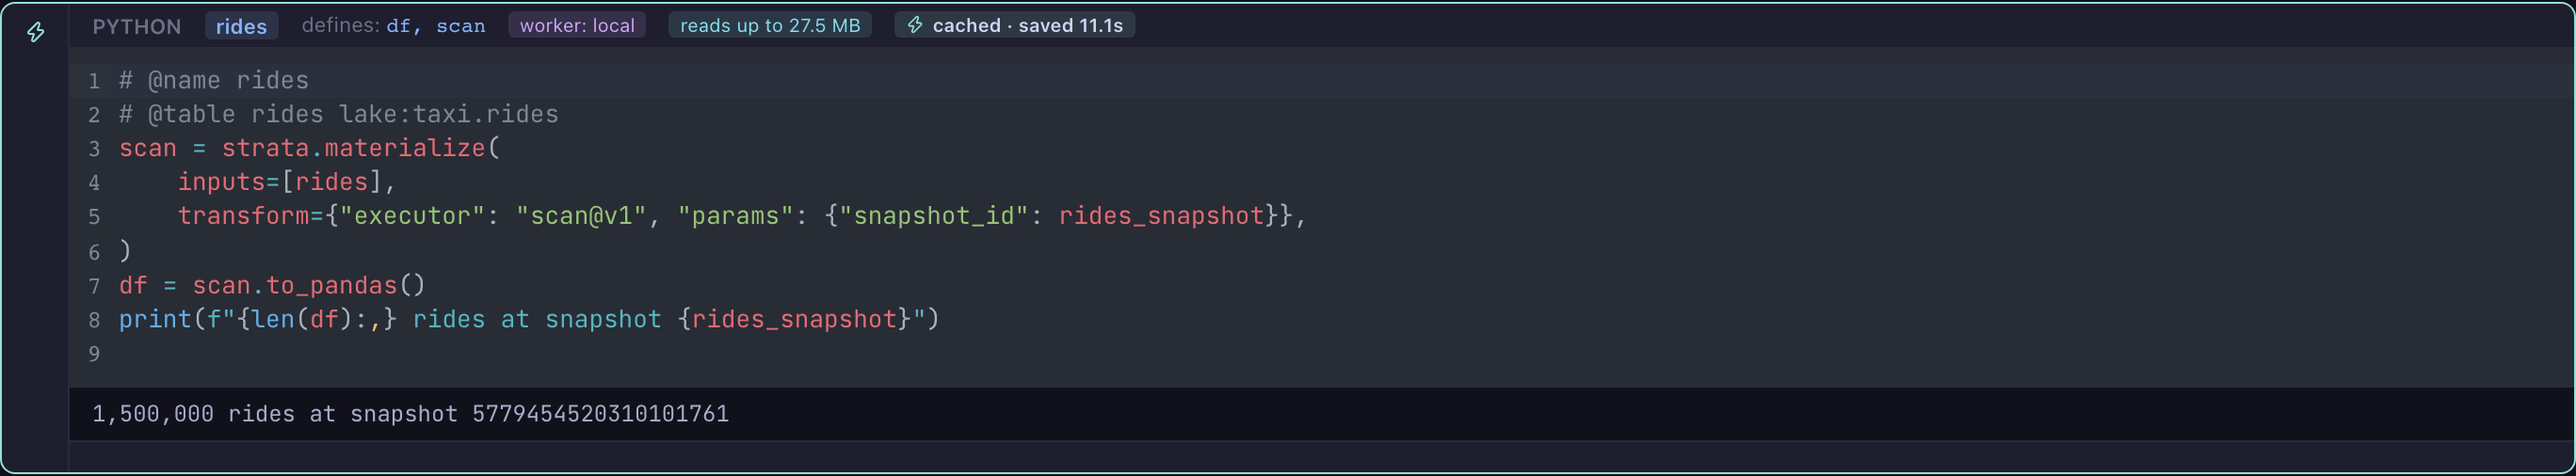
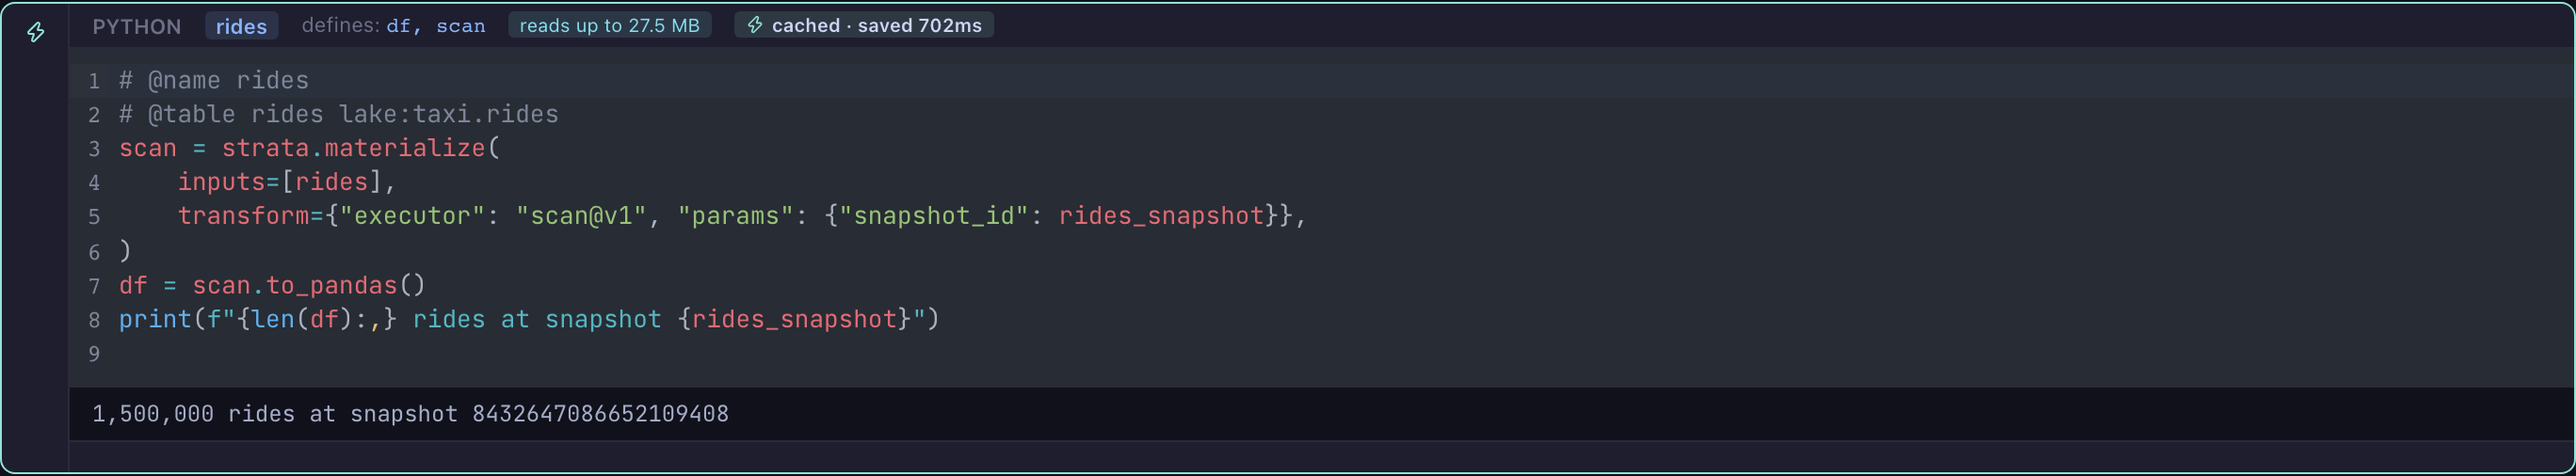
docs: images and alt text match the polished cell header
Reshot after the worker badge, duration label and notes preview changes. Tutorial step 4 told
readers to hover for the load time, which has been in the header all along.

Changed region(s): [[0.1864, 0.0, 0.466, 0.0889], [0.1864, 0.83, 0.2796, 0.8893]]

diff --git a/docs/index.md b/docs/index.md
@@ -88,8 +88,8 @@ See [Install](getting-started/installation.md) for full details.
 inputs and its environment. The step an agent ran ten turns ago is a cache hit now, and
 an edit re-runs only the cells below it.
 
-![A browser on the tutorial notebook over five moments: nothing has run; Run All computes every cell; Run All again and every code cell is a cache hit showing the time it saved; one cell is edited, so it and the chart below read stale while the load cell stays cached; Run All again, and only those two run while the load cell still reads cached, saved 2.7s.](assets/cache-payoff-light.gif#only-light)
-![A browser on the tutorial notebook over five moments: nothing has run; Run All computes every cell; Run All again and every code cell is a cache hit showing the time it saved; one cell is edited, so it and the chart below read stale while the load cell stays cached; Run All again, and only those two run while the load cell still reads cached, saved 2.7s.](assets/cache-payoff-dark.gif#only-dark)
+![A browser on the tutorial notebook over five moments: nothing has run; Run All computes every cell; Run All again and every code cell is a cache hit showing the time it saved; one cell is edited, so it and the chart below read stale while the load cell stays cached; Run All again, and only those two run while the load cell still reads cached, saved 2.1s.](assets/cache-payoff-light.gif#only-light)
+![A browser on the tutorial notebook over five moments: nothing has run; Run All computes every cell; Run All again and every code cell is a cache hit showing the time it saved; one cell is edited, so it and the chart below read stale while the load cell stays cached; Run All again, and only those two run while the load cell still reads cached, saved 2.1s.](assets/cache-payoff-dark.gif#only-dark)
 
 *Edit one cell in `strata tutorial`: only the cells that read it run again, and the
 cell above keeps what it saved. Captured from a real run, not a mock-up.*

diff --git a/docs/concepts/caching.md b/docs/concepts/caching.md
@@ -1,7 +1,7 @@
 # How caching works
 
-![A browser on the tutorial notebook over five moments: nothing has run; Run All computes every cell; Run All again and every code cell is a cache hit showing the time it saved; one cell is edited, so it and the chart below read stale while the load cell stays cached; Run All again, and only those two run while the load cell still reads cached, saved 2.7s.](../assets/cache-payoff-light.gif#only-light)
-![A browser on the tutorial notebook over five moments: nothing has run; Run All computes every cell; Run All again and every code cell is a cache hit showing the time it saved; one cell is edited, so it and the chart below read stale while the load cell stays cached; Run All again, and only those two run while the load cell still reads cached, saved 2.7s.](../assets/cache-payoff-dark.gif#only-dark)
+![A browser on the tutorial notebook over five moments: nothing has run; Run All computes every cell; Run All again and every code cell is a cache hit showing the time it saved; one cell is edited, so it and the chart below read stale while the load cell stays cached; Run All again, and only those two run while the load cell still reads cached, saved 2.1s.](../assets/cache-payoff-light.gif#only-light)
+![A browser on the tutorial notebook over five moments: nothing has run; Run All computes every cell; Run All again and every code cell is a cache hit showing the time it saved; one cell is edited, so it and the chart below read stale while the load cell stays cached; Run All again, and only those two run while the load cell still reads cached, saved 2.1s.](../assets/cache-payoff-dark.gif#only-dark)
 
 *Edit one cell in `strata tutorial`: only the cells that read it run again, and the
 cell above keeps what it saved. Captured from a real run, not a mock-up.*

diff --git a/docs/guides/data/mounts.md b/docs/guides/data/mounts.md
@@ -44,8 +44,8 @@ pinned mount's, is not guessed. After a successful run, `.strata/reads/index.jso
 what each input moved and on which machine; see
 [What a run moved](../../notebook/lake-aware-cells.md#what-a-run-moved).
 
-![A cell that scans the table lake:taxi.rides, with a badge in its header reading "reads up to 27.5 MB" beside its worker and cache badges.](../../assets/input-weight-light.png#only-light)
-![A cell that scans the table lake:taxi.rides, with a badge in its header reading "reads up to 27.5 MB" beside its worker and cache badges.](../../assets/input-weight-dark.png#only-dark)
+![A cell that scans the table lake:taxi.rides, with a badge in its header reading "reads up to 27.5 MB" beside its cache badge.](../../assets/input-weight-light.png#only-light)
+![A cell that scans the table lake:taxi.rides, with a badge in its header reading "reads up to 27.5 MB" beside its cache badge.](../../assets/input-weight-dark.png#only-dark)
 
 Strata copies a remote mount in its own process, not the notebook's venv, so
 its filesystem library goes where Strata is installed: the `s3` extra for

diff --git a/docs/getting-started/notebook.md b/docs/getting-started/notebook.md
@@ -242,8 +242,8 @@ The matplotlib figure renders inline as a PNG.
 
 Press ++shift+enter++ on the loader cell again. The 2-second pause
 is gone, Strata returned the cached `df` instantly, and the cell
-header shows a **cached** badge with what it saved. Hover the cell to
-see the load time ("loaded in 5ms" or similar).
+header shows a **cached** badge with what it saved. The right of the
+header gives the load time ("loaded in 5ms" or similar).
 
 The cache is content-addressed: the cache key is a hash of the
 cell's source, its upstream artifacts, and the environment lockfile.

diff --git a/docs/notebook/workers.md b/docs/notebook/workers.md
@@ -572,8 +572,8 @@ flagged and fails if run, and the panel offers no editor for them.
 
 **A host with its own machine picker can hide the panel.** Set
 `STRATA_NOTEBOOK_WORKERS_PANEL=hidden` and the notebook page leaves the Workers
-panel out. Cells still show their worker badge and health, `# @worker` still
-routes, and the host sets a notebook's default worker with
+panel out. A cell on a named or remote worker still shows its badge and health,
+`# @worker` still routes, and the host sets a notebook's default worker with
 `PUT /v1/notebooks/{id}/worker`.
 
 ## Authentication
